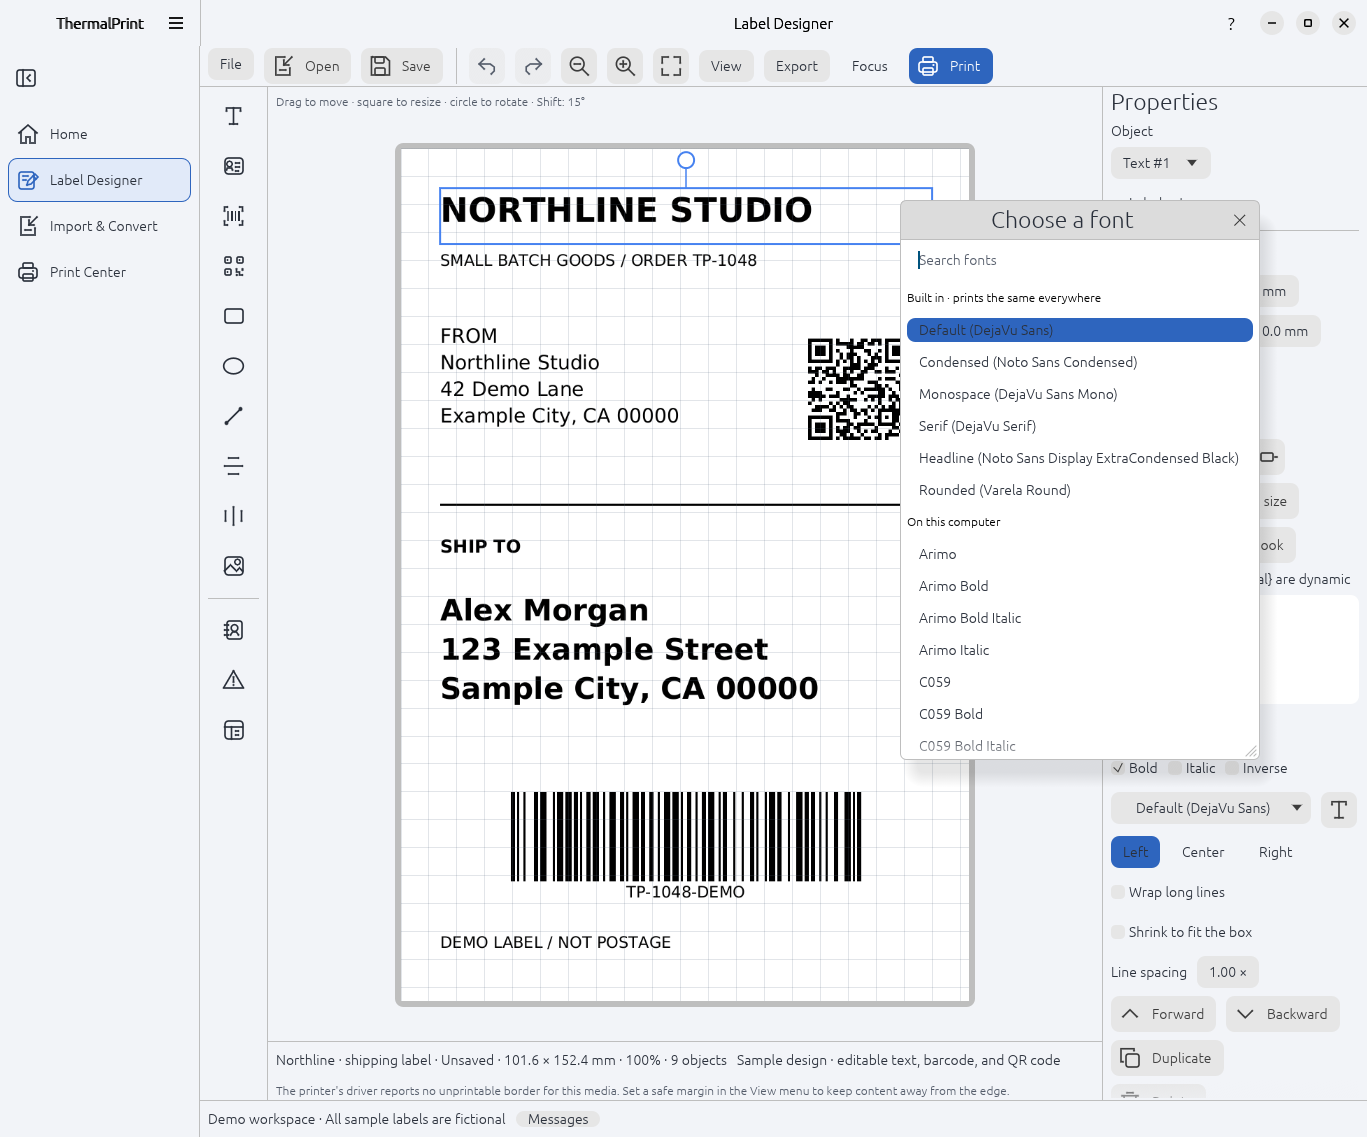
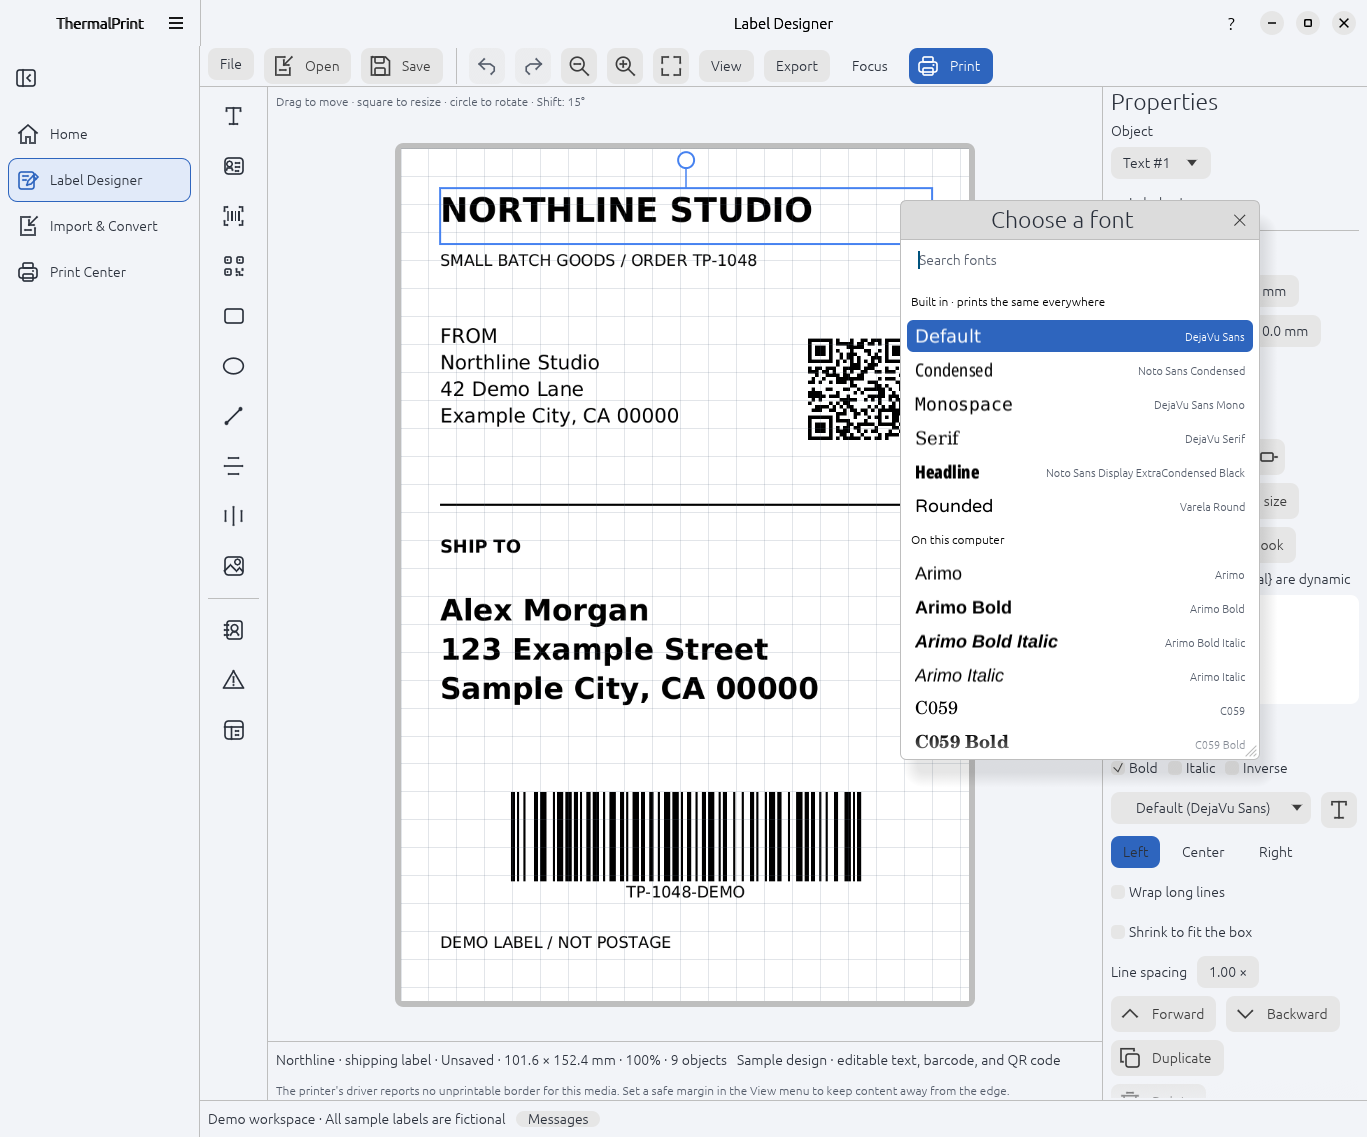
Show each font's name in that font in the font chooser
Each row draws the font's name in the font itself with the label
renderer, so it looks as it will print, with the plain name on the right
for symbol fonts. Only rows in view are drawn, a few new ones a frame,
and computer fonts are read for the sample and let go; the samples are
dropped when the chooser closes. The manual shows the new chooser.

Changed region(s): [[0.6452, 0.2463, 0.9217, 0.6772]]

diff --git a/docs/manual/pages/05-objects.html b/docs/manual/pages/05-objects.html
@@ -39,8 +39,8 @@ summary: Text, barcodes, QR codes, shapes, and images, with every setting.
 </table>
 
 <h3 id="fonts">Fonts</h3>
-<p>Select a text object and click its font button (it shows the current font) to open <strong>Choose a font</strong>. Type in <strong>Search fonts</strong> to narrow the list by name, then click a font to use it; the window closes. <kbd>Esc</kbd> or the window's close button closes it without changing the font. The list has three groups:</p>
-{{figure:designer-fonts|The Choose a font window with a search box, the built-in fonts, and the fonts on this computer|Choose a font: search, then click a font.}}
+<p>Select a text object and click its font button (it shows the current font) to open <strong>Choose a font</strong>. Each font's name is drawn in that font, so you can see how it looks, with its plain name on the right. Type in <strong>Search fonts</strong> to narrow the list by name, then click a font to use it; the window closes. <kbd>Esc</kbd> or the window's close button closes it without changing the font. The list has three groups:</p>
+{{figure:designer-fonts|The Choose a font window with a search box, and each font's name drawn in that font: the built-in fonts and the fonts on this computer|Choose a font: each name is drawn in its own font.}}
 <table>
   <tr><th>Group</th><th>Fonts</th><th>On another computer</th></tr>
   <tr><td><strong>Built in</strong></td><td><strong>Default (DejaVu Sans)</strong>, and five fonts chosen for labels: <strong>Condensed</strong> (fits more text on a line, for long addresses and product names), <strong>Monospace</strong> (every character the same width, for SKUs, order numbers, and serials), <strong>Serif</strong> (a classic look for name labels, jars, and gifts), <strong>Headline</strong> (tall and heavy, for words like FRAGILE or SALE), and <strong>Rounded</strong> (a friendly look for price tags).</td><td>They come with ThermalPrint, so a design prints the same on every computer.</td></tr>

diff --git a/src/designer_ui.rs b/src/designer_ui.rs
@@ -234,6 +234,8 @@ pub struct Designer {
     font_search: String,
     /// Where the open font chooser hangs from, or None when it is closed.
     font_picker: Option<Pos2>,
+    /// Font name samples drawn for the open chooser (None: the font could not be drawn).
+    font_samples: std::collections::HashMap<String, Option<egui::TextureHandle>>,
     symbol_textures: Vec<(crate::symbols::Symbol, egui::TextureHandle)>,
     logo_textures: std::collections::HashMap<PathBuf, egui::TextureHandle>,
     /// Crash recovery: a design left over from an unexpected exit, offered at startup.
@@ -298,6 +300,7 @@ impl Designer {
             fonts: crate::fonts::list(),
             font_search: String::new(),
             font_picker: None,
+            font_samples: Default::default(),
             symbol_textures: Vec::new(),
             logo_textures: Default::default(),
             recovered: None,
@@ -2955,9 +2958,11 @@ impl Designer {
                             &mut o.options.font,
                             &mut self.font_search,
                             &self.fonts,
+                            &mut self.font_samples,
                         )
                     {
                         self.font_picker = None;
+                        self.font_samples.clear();
                     }
                     if icon_action(
                         ui,
@@ -4001,33 +4006,51 @@ fn effective_border(
     ))
 }
 
-/// One row of the font chooser: a group heading, or a font with the name a design stores.
+/// One row of the font chooser: a group heading, or a font with the name a design stores,
+/// what its sample says, and its plain name.
 enum FontRow {
     Heading(&'static str),
-    Font(String, String),
+    Font {
+        key: String,
+        title: String,
+        detail: String,
+    },
+}
+
+/// Split "Condensed (Noto Sans Condensed)" into the sample text and the plain name.
+fn font_title(name: &str) -> (String, String) {
+    match name.split_once(" (") {
+        Some((title, rest)) => (title.to_string(), rest.trim_end_matches(')').to_string()),
+        None => (name.to_string(), name.to_string()),
+    }
 }
 
 /// The font chooser: a window with a search box and one list of the built-in fonts, your
-/// fonts, and the computer's fonts. Choosing a font closes it, as do Esc and its close
-/// button. Returns whether it is still open.
+/// fonts, and the computer's fonts, each name drawn in its own font. Choosing a font closes
+/// it, as do Esc and its close button. Returns whether it is still open.
 fn font_chooser(
     ctx: &egui::Context,
     anchor: Pos2,
     font: &mut String,
     search: &mut String,
     own: &[String],
+    samples: &mut std::collections::HashMap<String, Option<egui::TextureHandle>>,
 ) -> bool {
     let query = search.trim().to_lowercase();
     let matches = |name: &str| query.is_empty() || name.to_lowercase().contains(&query);
+    let font_row = |key: String, name: &str| {
+        let (title, detail) = font_title(name);
+        FontRow::Font { key, title, detail }
+    };
     let mut rows = vec![FontRow::Heading("Built in · prints the same everywhere")];
     let default = crate::i18n::tr("Default (DejaVu Sans)");
     if matches(default) {
-        rows.push(FontRow::Font(String::new(), default.to_string()));
+        rows.push(font_row(String::new(), default));
     }
     for built_in in crate::fonts::BUILT_IN {
         let name = crate::i18n::tr(built_in.name);
         if matches(name) {
-            rows.push(FontRow::Font(built_in.key(), name.to_string()));
+            rows.push(font_row(built_in.key(), name));
         }
     }
     let first_own = rows.len();
@@ -4035,7 +4058,7 @@ fn font_chooser(
     rows.extend(
         own.iter()
             .filter(|name| matches(name))
-            .map(|name| FontRow::Font(name.clone(), name.clone())),
+            .map(|name| font_row(name.clone(), name)),
     );
     if rows.len() == first_own + 1 {
         rows.pop();
@@ -4047,9 +4070,9 @@ fn font_chooser(
             .iter()
             .filter(|system| matches(&system.name))
             .map(|system| {
-                FontRow::Font(
+                font_row(
                     format!("{}{}", crate::fonts::SYSTEM_PREFIX, system.name),
-                    system.name.clone(),
+                    &system.name,
                 )
             }),
     );
@@ -4075,40 +4098,131 @@ fn font_chooser(
             if !field.has_focus() && !ui.memory(|m| m.focused().is_some()) {
                 field.request_focus();
             }
-            // Compact, left-aligned rows of one height, so long lists scroll smoothly.
-            let row = 24.;
-            ui.spacing_mut().interact_size.y = row;
-            ui.spacing_mut().button_padding.y = 2.;
+            // Rows of one height, so long lists scroll smoothly. Only the rows in view are
+            // drawn, and at most a few new samples a frame, so scrolling never stalls.
+            let row = 32.;
+            let ppp = ctx.pixels_per_point();
+            let mut budget = 8;
+            ui.spacing_mut().item_spacing.y = 2.;
             egui::ScrollArea::vertical()
                 .id_salt("font-chooser-list")
                 .auto_shrink([false, false])
                 .show_rows(ui, row, rows.len(), |ui, range| {
-                    ui.with_layout(egui::Layout::top_down_justified(egui::Align::Min), |ui| {
-                        for entry in &rows[range] {
+                    for entry in &rows[range] {
+                        let (rect, response) = ui.allocate_exact_size(
+                            Vec2::new(ui.available_width(), row),
                             match entry {
-                                FontRow::Heading(text) => {
-                                    ui.allocate_ui_with_layout(
-                                        Vec2::new(ui.available_width(), row),
-                                        egui::Layout::left_to_right(egui::Align::Center),
-                                        |ui| {
-                                            ui.label(
-                                                RichText::new(crate::i18n::tr(text))
-                                                    .small()
-                                                    .strong(),
-                                            );
-                                        },
+                                FontRow::Heading(_) => Sense::hover(),
+                                FontRow::Font { .. } => Sense::click(),
+                            },
+                        );
+                        let painter = ui.painter_at(rect);
+                        let visuals = ui.visuals();
+                        match entry {
+                            FontRow::Heading(text) => {
+                                painter.text(
+                                    rect.left_center() + Vec2::new(4., 0.),
+                                    egui::Align2::LEFT_CENTER,
+                                    crate::i18n::tr(text),
+                                    egui::FontId::proportional(12.),
+                                    visuals.strong_text_color(),
+                                );
+                            }
+                            FontRow::Font { key, title, detail } => {
+                                let selected = font == key;
+                                response.widget_info(|| {
+                                    egui::WidgetInfo::selected(
+                                        egui::Role::Button,
+                                        true,
+                                        selected,
+                                        detail,
+                                    )
+                                });
+                                if selected {
+                                    painter.rect_filled(rect, 6., visuals.selection.bg_fill);
+                                } else if response.hovered() || response.has_focus() {
+                                    painter.rect_filled(
+                                        rect,
+                                        6.,
+                                        visuals.widgets.hovered.weak_bg_fill,
                                     );
                                 }
-                                FontRow::Font(key, name) => {
-                                    if ui.selectable_label(font == key, name.as_str()).clicked() {
-                                        *font = key.clone();
-                                        chosen = true;
+                                let color = if selected {
+                                    visuals.selection.stroke.color
+                                } else {
+                                    visuals.strong_text_color()
+                                };
+                                let sample_width = rect.width() * 0.62;
+                                if !samples.contains_key(key) && budget > 0 {
+                                    budget -= 1;
+                                    let drawn = crate::fonts::sample(
+                                        key,
+                                        title,
+                                        18. * ppp,
+                                        (sample_width * ppp) as u32,
+                                    )
+                                    .map(|(w, h, mask)| {
+                                        let pixels: Vec<Color32> = mask
+                                            .iter()
+                                            .map(|&a| Color32::from_white_alpha(a))
+                                            .collect();
+                                        ctx.load_texture(
+                                            format!("font-sample-{key}"),
+                                            egui::ColorImage::new([w, h], pixels),
+                                            egui::TextureOptions::LINEAR,
+                                        )
+                                    });
+                                    samples.insert(key.clone(), drawn);
+                                }
+                                match samples.get(key) {
+                                    Some(Some(texture)) => {
+                                        let size = texture.size_vec2() / ppp;
+                                        painter.image(
+                                            texture.id(),
+                                            Rect::from_min_size(
+                                                Pos2::new(
+                                                    rect.left() + 8.,
+                                                    rect.center().y - size.y / 2.,
+                                                ),
+                                                size,
+                                            ),
+                                            Rect::from_min_max(Pos2::ZERO, Pos2::new(1., 1.)),
+                                            color,
+                                        );
                                     }
+                                    // Not drawn yet, or a font that cannot be drawn: plain text.
+                                    _ => {
+                                        painter.text(
+                                            rect.left_center() + Vec2::new(8., 0.),
+                                            egui::Align2::LEFT_CENTER,
+                                            title,
+                                            egui::FontId::proportional(15.),
+                                            color,
+                                        );
+                                    }
+                                }
+                                painter.text(
+                                    rect.right_center() - Vec2::new(8., 0.),
+                                    egui::Align2::RIGHT_CENTER,
+                                    detail,
+                                    egui::FontId::proportional(11.),
+                                    if selected {
+                                        color
+                                    } else {
+                                        visuals.weak_text_color()
+                                    },
+                                );
+                                if response.clicked() {
+                                    *font = key.clone();
+                                    chosen = true;
                                 }
                             }
                         }
-                    });
+                    }
                 });
+            if budget == 0 {
+                ctx.request_repaint();
+            }
             if none_on_computer {
                 ui.label(
                     RichText::new(crate::i18n::tr("No fonts match."))

diff --git a/src/fonts.rs b/src/fonts.rs
@@ -279,6 +279,63 @@ pub fn system_in<'a>(fonts: &'a [SystemFont], name: &str, bold: bool) -> Option<
     Some(chosen)
 }
 
+/// Draw `text` in the font a design names, as a grey mask `(width, height, coverage)` for the
+/// font chooser, about `px` pixels tall and at most `max_width` wide. A computer font is read
+/// for this and let go afterwards, so browsing many fonts does not keep them all in memory.
+pub fn sample(name: &str, text: &str, px: f32, max_width: u32) -> Option<(usize, usize, Vec<u8>)> {
+    let draw = |font: &Font| draw_sample(font, text, px, max_width);
+    if name.is_empty() {
+        draw(crate::design_render::default_font(false))
+    } else if name.starts_with(SYSTEM_PREFIX) {
+        let path = &system_in(system_fonts(), name, false)?.path;
+        let metadata = std::fs::metadata(path).ok()?;
+        if !metadata.is_file() || metadata.len() > MAX_BYTES {
+            return None;
+        }
+        let font = Font::from_bytes(std::fs::read(path).ok()?, FontSettings::default()).ok()?;
+        draw(&font)
+    } else {
+        draw(lookup(name, false)?)
+    }
+}
+
+fn draw_sample(
+    font: &Font,
+    text: &str,
+    px: f32,
+    max_width: u32,
+) -> Option<(usize, usize, Vec<u8>)> {
+    let line = font.horizontal_line_metrics(px)?;
+    let height = ((line.ascent - line.descent).ceil() as usize + 2).clamp(1, 400);
+    let mut glyphs = vec![];
+    let mut x = 0_f32;
+    for c in text.chars() {
+        let (metrics, bitmap) = font.rasterize(c, px);
+        glyphs.push((x, metrics, bitmap));
+        x += metrics.advance_width;
+        if x >= max_width as f32 {
+            break;
+        }
+    }
+    let width = (x.ceil() as usize).clamp(1, max_width.max(1) as usize);
+    let mut mask = vec![0_u8; width * height];
+    for (origin, metrics, bitmap) in glyphs {
+        let left = (origin + metrics.xmin as f32).round() as i64;
+        let top = (line.ascent - metrics.height as f32 - metrics.ymin as f32).round() as i64 + 1;
+        for gy in 0..metrics.height {
+            for gx in 0..metrics.width {
+                let (x, y) = (left + gx as i64, top + gy as i64);
+                if x < 0 || y < 0 || x >= width as i64 || y >= height as i64 {
+                    continue;
+                }
+                let cell = &mut mask[y as usize * width + x as usize];
+                *cell = (*cell).max(bitmap[gy * metrics.width + gx]);
+            }
+        }
+    }
+    Some((width, height, mask))
+}
+
 /// Whether the Bold switch changes this font: the default font and the built-in fonts with a
 /// bold face, and the computer's fonts whose family has a Bold style.
 pub fn has_bold(name: &str) -> bool {
@@ -554,5 +611,24 @@ mod font_group_tests {
         .unwrap();
         let target = dir.path().join("fonts");
         assert!(install_in(&target, &source).is_err());
+    }
+}
+
+#[cfg(test)]
+mod sample_tests {
+    use super::*;
+
+    #[test]
+    fn font_samples_draw_the_text_in_that_font_within_the_width() {
+        let (w, h, mask) = sample("", "Default", 24., 400).expect("default font draws");
+        assert_eq!(mask.len(), w * h);
+        assert!(w > 20 && w <= 400 && h > 10);
+        assert!(mask.iter().any(|&a| a > 200), "some ink");
+        let condensed = sample("builtin:condensed", "Default", 24., 400).unwrap();
+        assert!(condensed.0 < w, "condensed text is narrower");
+        let (narrow, _, _) = sample("", "A very long font name indeed", 24., 60).unwrap();
+        assert!(narrow <= 60);
+        assert!(sample("system:No Such Font 123", "x", 24., 100).is_none());
+        assert!(sample("builtin:nope", "x", 24., 100).is_none());
     }
 }

diff --git a/src/design_render.rs b/src/design_render.rs
@@ -94,6 +94,10 @@ fn draw_shape(im: &mut RgbaImage, kind: ShapeKind, stroke_mm: f32, filled: bool,
         ShapeKind::DividerVertical => line(im, w / 2, 0, w / 2, h - 1, t),
     }
 }
+/// The default font for label text (DejaVu Sans).
+pub(crate) fn default_font(bold: bool) -> &'static Font {
+    font(bold)
+}
 fn font(bold: bool) -> &'static Font {
     static REGULAR: std::sync::OnceLock<Font> = std::sync::OnceLock::new();
     static BOLD: std::sync::OnceLock<Font> = std::sync::OnceLock::new();
